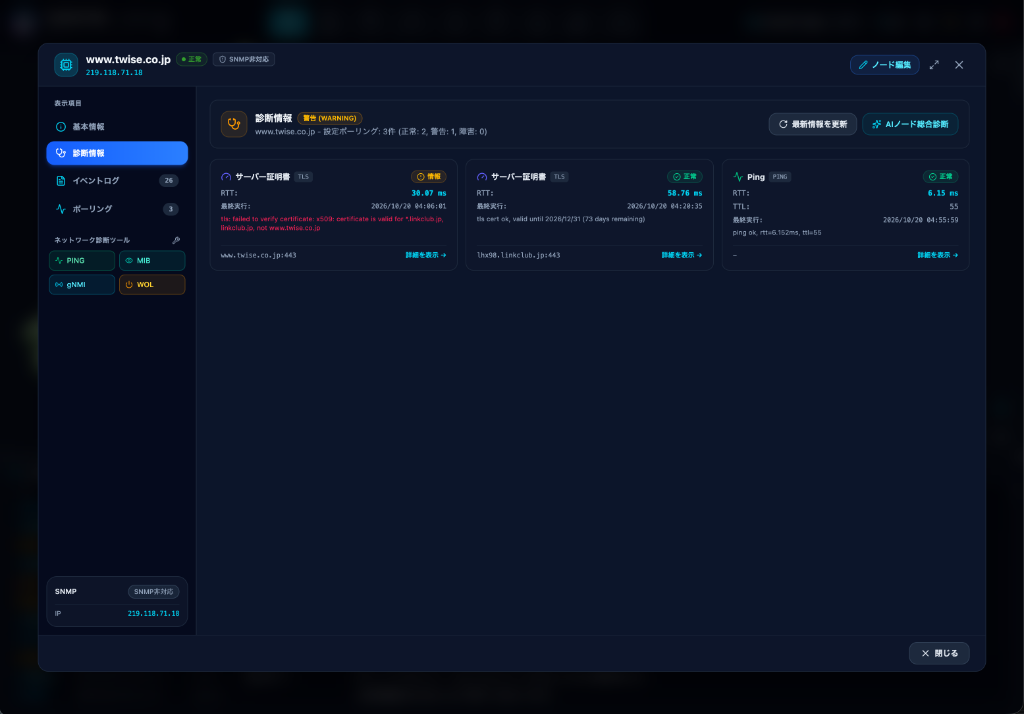
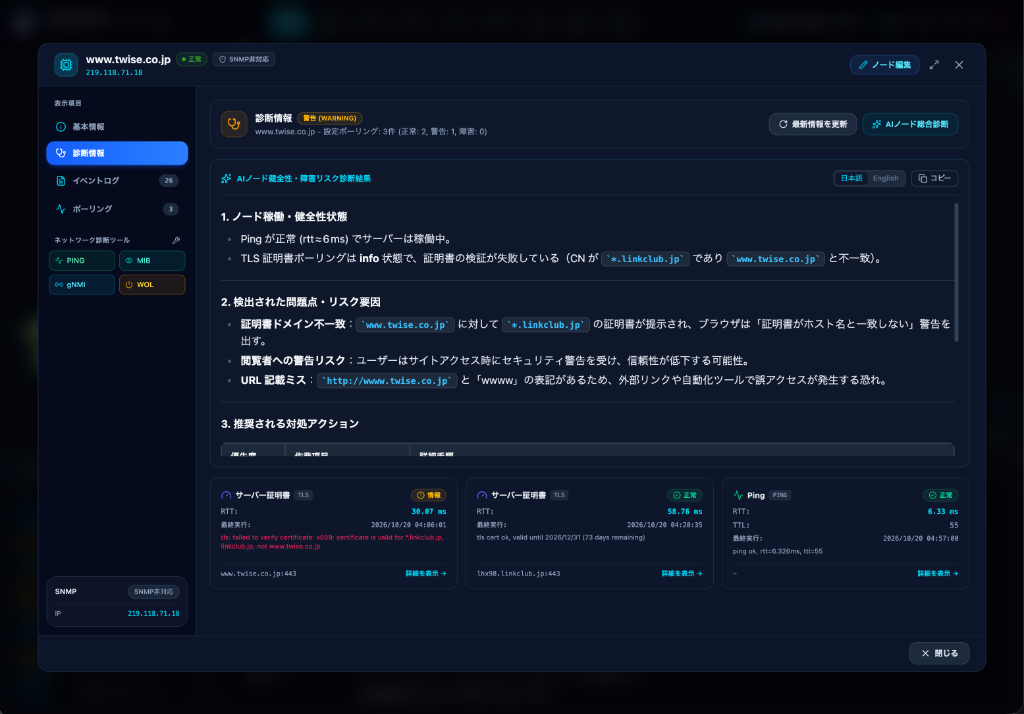
docs: add node AI health diagnosis screenshot and documentation for v0.2.0

diff --git a/docs/index_ja.md b/docs/index_ja.md
@@ -255,6 +255,10 @@ TWSNMP NEO は直感的なシングルページアプリケーション（SPA）
 
 ![](./images/ja/node_detail.png)
 
+また、右上の「AIノード総合診断」ボタンを押すと、ノードの稼働状態や各種ポーリングの警告内容を LLM が自動的に読み解き、原因と推奨対処アクションを Markdown 形式で分かりやすく提示します（日英言語切替対応）：
+
+![](./images/ja/node_health_ai.png)
+
 ### ノードプロパティ編集（2カラム & 共通認証対応）
 
 ノードの編集画面は、見通しの良いワイドな2カラムレイアウトに刷新されています：

diff --git a/docs/index.md b/docs/index.md
@@ -248,6 +248,10 @@ Right-clicking any node and selecting "Info" opens the Node Details view, displa
 
 ![](./images/en/node_detail.png)
 
+Clicking the **AI Node Health Diagnosis** button triggers an LLM evaluation of node status, active polling warnings, and risk factors, rendering root cause explanations and recommended remediation actions in structured Markdown with bilingual (Japanese/English) toggling:
+
+![](./images/en/node_health_ai.png)
+
 ### Node Property Editor (2-Column & Shared Auth)
 
 The node configuration dialog features an expansive two-column layout:
